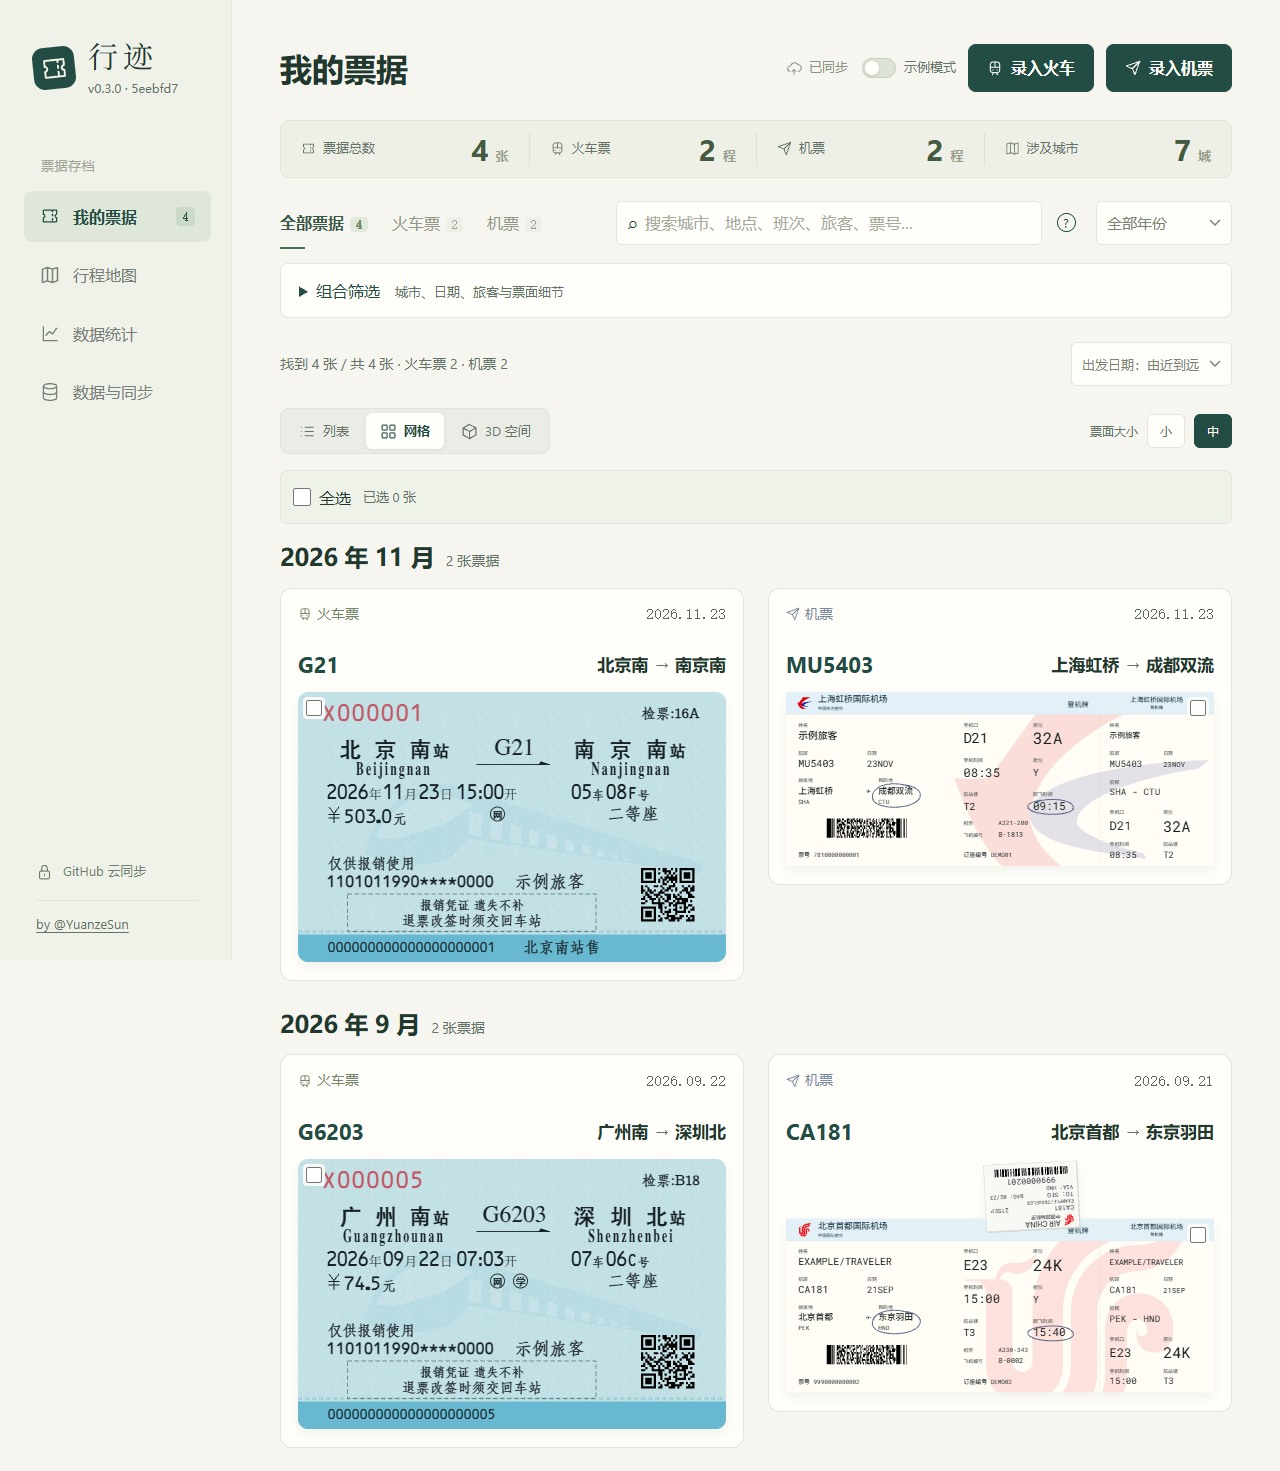
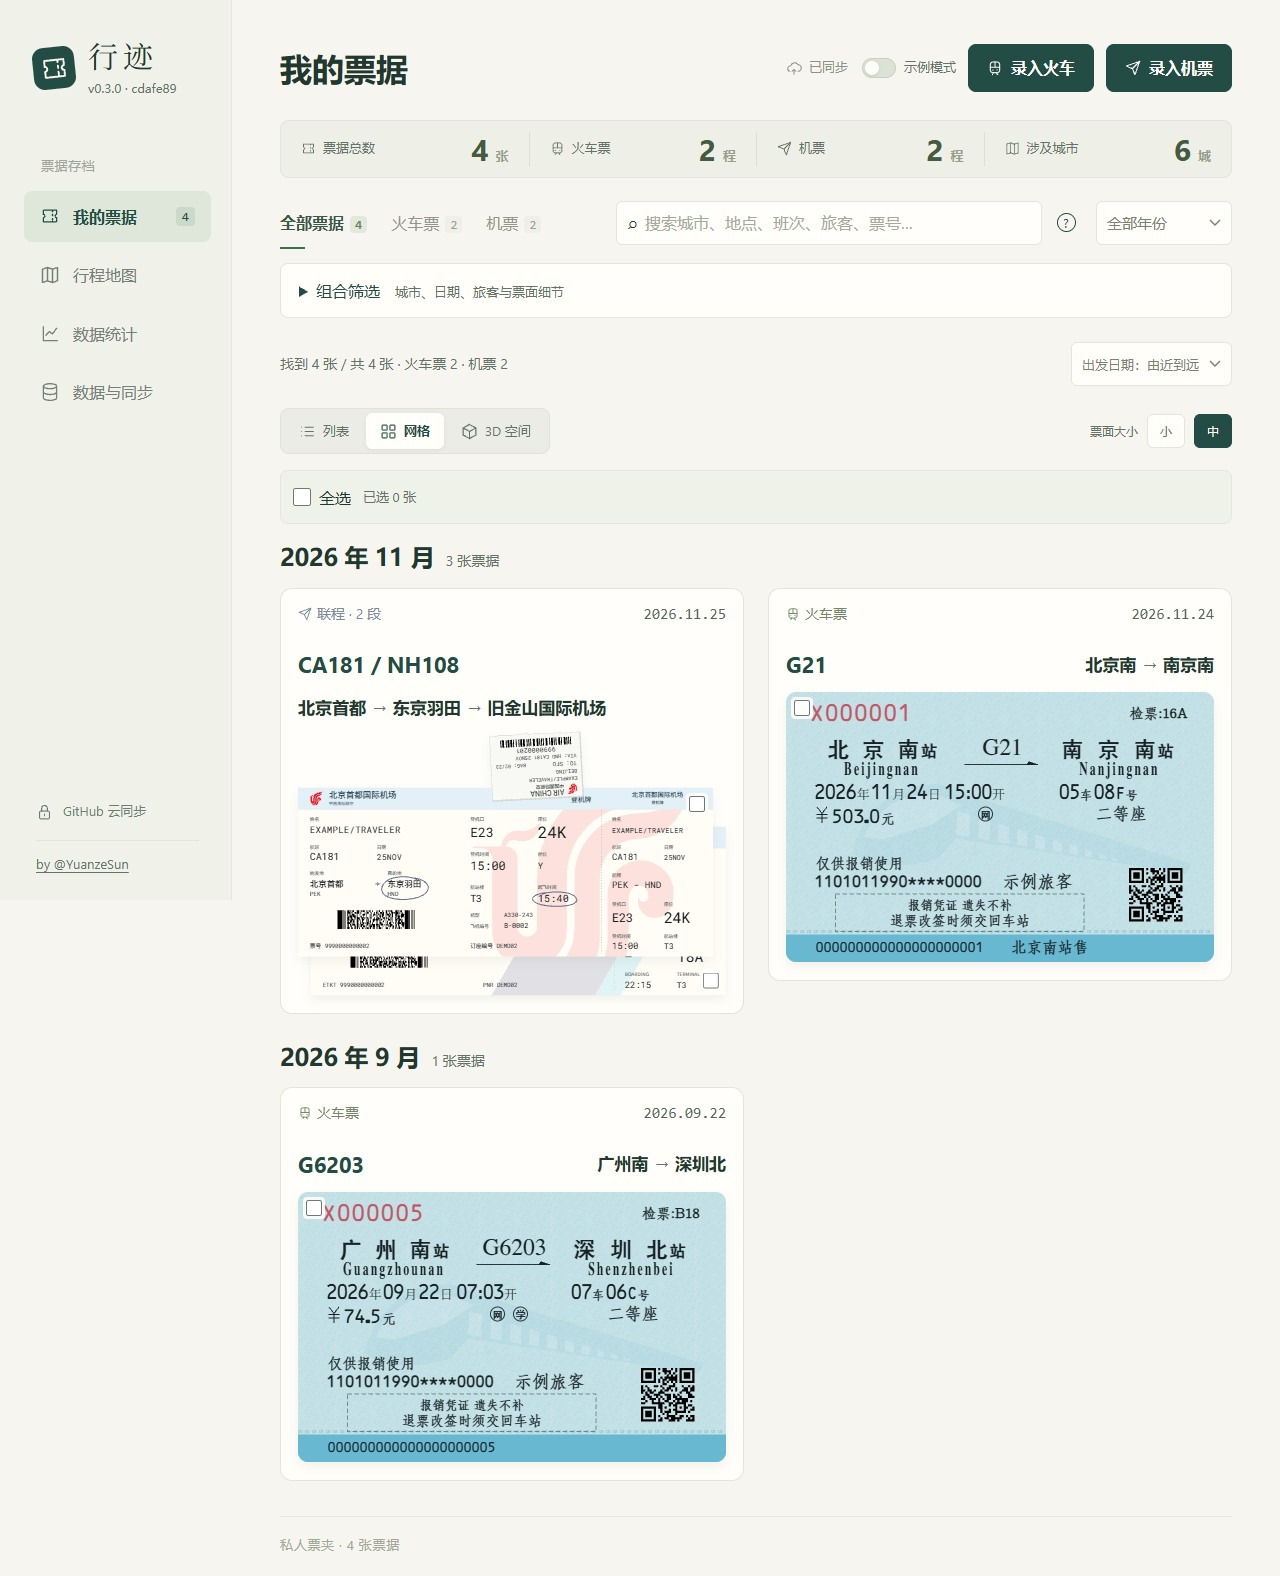
Show connecting itineraries and lift hovered boarding passes

diff --git a/src/ticket-card.js b/src/ticket-card.js
@@ -6,23 +6,46 @@ import {flightCabinLabel} from './seat-classes.js';
 
 const kind = record => isRefundReceipt(record) ? '退票费凭证' : record.type === 'rail' ? '火车票' : '机票';
 const routeLabel = record => `${record.service || '票据'} ${record.origin || '出发地待补充'}至${record.destination || '到达地待补充'}`;
+const serviceLabel = (record, fallback = '班次待补充') => record.service || (record.flightStatus === 'open' ? 'OPEN' : fallback);
 export function ticketSelection(record, selected) {
   return `<label class="card-select"><input type="checkbox" data-archive-select="${e(record.id)}" ${selected ? 'checked' : ''} aria-label="选择 ${e(routeLabel(record))} ${e(formatDate(record.departureDate))}票据"/></label>`;
 }
 
 function ticketFace(record, { selectable, selected, depth }) {
-  const layer = depth === undefined ? '' : ` ticket-stack-leg ${depth ? 'ticket-stack-layer' : 'ticket-stack-front'}${selected ? ' is-selected' : ''}`;
+  const layer = depth === undefined ? '' : ` ticket-stack-leg${selected ? ' is-selected' : ''}`;
   const offset = depth ? ` style="--stack-depth:${depth}"` : '';
   return `<div class="ticket-face${layer}" data-ticket-type="${record.type}"${offset}>${selectable ? ticketSelection(record,selected) : ''}<button class="ticket-preview" data-action="view" data-id="${e(record.id)}" aria-label="查看 ${e(routeLabel(record))}票据">${ticketSVG(record)}</button></div>`;
 }
 
-export function ticketCard(record, {icon, selectable = true, selected = false, selectedIds}) {
-  const stacked = record.stackedFlights?.length > 0;
-  const face = ticketFace(record, { selectable, selected, depth: stacked ? 0 : undefined });
-  const content = stacked ? `<div class="ticket-stack-deck" style="--stack-size:${record.stackedFlights.length}" role="group" aria-label="联程航班，共 ${record.stackedFlights.length + 1} 段">${face}${record.stackedFlights.map((leg, index) => ticketFace(leg, { selectable, selected: selectedIds?.has(leg.id), depth: index + 1 })).join('')}</div>` : face;
-  return `<article class="ticket-card${stacked ? ' ticket-stack' : selected ? ' is-selected' : ''}"><div class="card-top"><span class="transport-tag ${record.type}">${icon(record.type === 'rail' ? 'train' : 'plane')}${stacked ? `联程 · ${record.stackedFlights.length + 1} 段` : kind(record)}</span><time>${e(formatDate(record.departureDate))}</time></div><div class="card-info"><div class="card-route"><strong class="card-service">${e(record.service || (record.flightStatus === 'open' ? 'OPEN' : '班次待补充'))}</strong><h2><span class="route-endpoint">${e(record.origin || '出发地待补充')}</span><span class="route-arrow">→</span><span class="route-endpoint">${e(record.destination || '到达地待补充')}</span></h2></div></div>${content}</article>`;
+function ticketRoute(legs) {
+  const endpoint = (name, fallback) => `<span class="route-endpoint">${e(name || fallback)}</span>`;
+  return legs.map((leg, index) => {
+    const previous = legs[index - 1];
+    const departure = leg.originCode || leg.origin;
+    const connected = previous && departure && departure === (previous.destinationCode || previous.destination);
+    const origin = connected ? '' : endpoint(leg.origin, '出发地待补充');
+    const separator = previous && !connected ? '<span class="route-arrow">/</span>' : '';
+    return `${separator}${origin}<span class="route-arrow">→</span>${endpoint(leg.destination, '到达地待补充')}`;
+  }).join('');
 }
-export function ticketListRow(record, {icon, selectable = true, selected = false}) {
+
+export function ticketCard(record, {icon, selectable = true, selected}) {
+  const legs = [record, ...(record.stackedFlights || [])];
+  const stacked = legs.length > 1;
+  const services = legs.map(leg => serviceLabel(leg)).join(' / ');
+  const faces = legs.map((leg, index) => ticketFace(leg, {
+    selectable, selected: selected?.has(leg.id), depth: stacked ? index : undefined
+  })).join('');
+  const content = stacked
+    ? `<div class="ticket-stack-deck" style="--stack-size:${legs.length - 1}" role="group" aria-label="联程航班，共 ${legs.length} 段">${faces}</div>`
+    : faces;
+  return `<article class="ticket-card${stacked ? ' ticket-stack' : selected?.has(record.id) ? ' is-selected' : ''}">
+    <div class="card-top"><span class="transport-tag ${record.type}">${icon(record.type === 'rail' ? 'train' : 'plane')}${stacked ? `联程 · ${legs.length} 段` : kind(record)}</span><time>${e(formatDate(record.departureDate))}</time></div>
+    <div class="card-info"><div class="card-route"><strong class="card-service">${e(services)}</strong><h2>${ticketRoute(legs)}</h2></div></div>
+    ${content}</article>`;
+}
+export function ticketListRow(record, {icon, selectable = true, selected}) {
+  const checked = selected?.has(record.id);
   const seat = [record.type === 'rail' && record.carriage ? record.carriage+'车' : '',record.seat,record.type === 'flight' ? flightCabinLabel(record.seatClass) : record.seatClass].filter(Boolean).join(' · ');
-  return `<article class="ticket-card ticket-list-row${selected ? ' is-selected' : ''}">${selectable ? ticketSelection(record,selected) : ''}<button class="ticket-list-open" data-action="view" data-id="${e(record.id)}" aria-label="查看 ${e(routeLabel(record))}票据"><span class="ticket-list-date"><time>${e(formatDate(record.departureDate))}</time><small>${e(record.departureTime)}</small></span><span class="ticket-list-service"><span class="transport-tag ${record.type}" title="${kind(record)}">${icon(record.type === 'rail' ? 'train' : 'plane')}</span><strong>${e(record.service || (record.flightStatus === 'open' ? 'OPEN' : '待补充'))}</strong></span><span class="ticket-list-route"><span>${e(record.origin || '出发地待补充')}</span><span class="route-arrow">→</span><span>${e(record.destination || '到达地待补充')}</span></span><span class="ticket-list-person" title="${e(record.passenger)}">${e(record.passenger)}</span><span class="ticket-list-seat" title="${e(seat)}">${e(seat)}</span><span class="ticket-list-price">${record.price ? '¥'+e(record.price) : ''}</span>${icon('chevron')}</button></article>`;
+  return `<article class="ticket-card ticket-list-row${checked ? ' is-selected' : ''}">${selectable ? ticketSelection(record,checked) : ''}<button class="ticket-list-open" data-action="view" data-id="${e(record.id)}" aria-label="查看 ${e(routeLabel(record))}票据"><span class="ticket-list-date"><time>${e(formatDate(record.departureDate))}</time><small>${e(record.departureTime)}</small></span><span class="ticket-list-service"><span class="transport-tag ${record.type}" title="${kind(record)}">${icon(record.type === 'rail' ? 'train' : 'plane')}</span><strong>${e(serviceLabel(record, '待补充'))}</strong></span><span class="ticket-list-route"><span>${e(record.origin || '出发地待补充')}</span><span class="route-arrow">→</span><span>${e(record.destination || '到达地待补充')}</span></span><span class="ticket-list-person" title="${e(record.passenger)}">${e(record.passenger)}</span><span class="ticket-list-seat" title="${e(seat)}">${e(seat)}</span><span class="ticket-list-price">${record.price ? '¥'+e(record.price) : ''}</span>${icon('chevron')}</button></article>`;
 }

diff --git a/src/ticket-view.js b/src/ticket-view.js
@@ -2,7 +2,7 @@ import {ticketCard,ticketListRow} from './ticket-card.js';
 import {ticketSpaceMarkup} from './ticket-space.js';
 import {timeline,ticketPeriods} from './timeline.js';
 import {flightTicketKey} from './flight-ticket-shared.js';
-import {flightDepartureOrder,compareFlightDeparture} from './journey-duration.js';
+import {flightsInDepartureOrder} from './journey-duration.js';
 
 const modes = [['list','列表','<path d="M8 6h13M8 12h13M8 18h13M3 6h1M3 12h1M3 18h1"/>'],['grid','网格','<rect x="3" y="3" width="7" height="7" rx="1"/><rect x="14" y="3" width="7" height="7" rx="1"/><rect x="3" y="14" width="7" height="7" rx="1"/><rect x="14" y="14" width="7" height="7" rx="1"/>'],['space','3D 空间','<path d="m12 2 9 5v10l-9 5-9-5V7zM3 7l9 5 9-5M12 12v10"/>']];
 const sizes = {small:{label:'小',scale:.4},medium:{label:'中',scale:1}};
@@ -26,7 +26,7 @@ export function ticketViewEntries(records, view) {
   const stacks = new Map(), behind = new Set();
   for (const matches of groups.values()) {
     if (matches.length < 2) continue;
-    const [front, ...stackedFlights] = matches.map(flightDepartureOrder).sort(compareFlightDeparture).map(entry => entry.record);
+    const [front, ...stackedFlights] = flightsInDepartureOrder(matches);
     stacks.set(front.id, { ...front, stackedFlights });
     for (const leg of stackedFlights) behind.add(leg.id);
   }
@@ -40,7 +40,7 @@ export function ticketCollection(records, value, options) {
   const groupByDate=['newest','oldest'].includes(options.sort ?? 'newest');
   if(value.mode==='list'&&value.size==='medium')return timeline(records,options.icon,{...options,selectable:options.selectable ?? true,groupByDate});
   const list=value.mode==='list',render=list ? ticketListRow : ticketCard;
-  const renderRows=rows=>`<div class="ticket-collection ${list ? 'ticket-list' : 'ticket-grid'}" data-faces-only="${!list&&value.size==='small'}" style="${ticketGridStyle(value.size)}">${rows.map(record=>render(record,{...options,selected:options.selected?.has(record.id),selectedIds:options.selected})).join('')}</div>`;
+  const renderRows=rows=>`<div class="ticket-collection ${list ? 'ticket-list' : 'ticket-grid'}" data-faces-only="${!list&&value.size==='small'}" style="${ticketGridStyle(value.size)}">${rows.map(record=>render(record,options)).join('')}</div>`;
   return groupByDate ? `<section class="ticket-chronology">${ticketPeriods(records,renderRows,visibleTicketCount)}</section>` : renderRows(records);
 }
 export function appendTicketCollection(container, records, view, options) {

diff --git a/src/styles.css b/src/styles.css
@@ -784,12 +784,16 @@ p.flight-local-time{margin:-4px 0 13px}
 .ticket-face:has(.ticket-preview>svg[data-ticket-has-sticker])>.card-select{top:calc(100% * 171 / 671 + 5px)}
 .ticket-stack-deck{--stack-x:min(clamp(8px,3cqw,14px),calc(24cqw / var(--stack-size)));--stack-y:clamp(29px,9cqw,44px);display:grid;grid-template-columns:minmax(0,1fr);align-items:end;isolation:isolate;margin-bottom:18px;padding-inline-end:calc(var(--stack-size) * var(--stack-x));padding-bottom:calc(var(--stack-size) * var(--stack-y))}
 .ticket-collection[data-faces-only=true] .ticket-stack-deck,.ticket-stack-deck .ticket-stack-leg{margin-bottom:0}
-.ticket-stack-leg{grid-area:1/1}
-.ticket-stack-front{z-index:1}
-.ticket-stack-layer{z-index:calc(-1 * var(--stack-depth));transform:translate(calc(var(--stack-depth) * var(--stack-x)),calc(var(--stack-depth) * var(--stack-y)))}
-.ticket-stack-layer:has(:focus-visible){z-index:2}
+.ticket-stack-leg{grid-area:1/1;z-index:calc(0 - var(--stack-depth,0))}
+.ticket-stack-leg:not(:first-child){transform:translate(calc(var(--stack-depth) * var(--stack-x)),calc(var(--stack-depth) * var(--stack-y)))}
+@media(hover:hover){.ticket-stack-leg:hover{z-index:1}}
+.ticket-stack-leg:has(:focus-visible){z-index:2}
 .ticket-stack-leg.is-selected .ticket-preview{outline:2px solid #60836f;outline-offset:-1px}
-.ticket-stack-layer[data-ticket-type=flight]>.card-select{top:auto;bottom:4px;right:4px}
+.ticket-stack-leg:not(:first-child)>.card-select{top:auto;bottom:4px;right:4px}
+.ticket-stack .card-route{flex-wrap:wrap;justify-content:space-between}
+.ticket-stack .card-route .card-service{flex-shrink:1;white-space:normal;overflow-wrap:anywhere}
+.ticket-stack .card-route h2{flex:0 1 auto;flex-wrap:wrap;justify-content:flex-start}
+.ticket-stack .card-route h2 .route-endpoint{white-space:normal;overflow:visible}
 .ticket-collection[data-faces-only=true] .card-top{display:none}.ticket-collection[data-faces-only=true] .ticket-face{margin:0}
 .ticket-list-date{line-height:1.2;gap:2px}.ticket-list-person,.ticket-list-seat{white-space:nowrap;text-overflow:ellipsis;overflow:hidden}
 .ticket-list-route>span:not(.route-arrow){white-space:nowrap;overflow:hidden;text-overflow:ellipsis;min-width:0;max-width:calc(50% - 12px)}

diff --git a/tests/ticket-view-app.test.js b/tests/ticket-view-app.test.js
@@ -22,12 +22,12 @@ test('archive opens in medium newest-first grid and combines layouts with shared
     assert.equal(document.querySelector('[data-ticket-view="grid"]').getAttribute('aria-pressed'),'true');assert.equal(document.querySelector('[data-ticket-size="medium"]').getAttribute('aria-pressed'),'true');assert.equal(document.querySelector('#search-sort').value,'newest');
     assert.deepEqual([...document.querySelector('#search-sort').options].map(option=>option.value),['newest','oldest','price-asc','price-desc']);
     assert.match(document.querySelector('[data-action="load-more"]').textContent,/49 \/ 80/);
-    const back = '.ticket-stack-layer [data-action="view"][data-id="trip-48"]';
+    const back = '.ticket-stack-leg:nth-child(2) [data-action="view"][data-id="trip-48"]';
     click(back);
     await wait(()=>document.querySelector('.detail-grid'));
     assert.ok(document.querySelector('[data-action="edit"][data-id="trip-48"]'));
     click('[data-action="close-modal"]');await wait(()=>!document.querySelector('dialog'));
-    click('.ticket-stack-front [data-archive-select="trip-40"]');
+    click('.ticket-stack-leg:first-child [data-archive-select="trip-40"]');
     click(back);
     assert.equal(document.querySelector('[data-archive-select="trip-48"]').checked,true);
     assert.equal(document.querySelector('[data-archive-select="trip-40"]').checked,true);

diff --git a/tests/aircraft.test.js b/tests/aircraft.test.js
@@ -27,6 +27,7 @@ const examples = [
   ['Airbus A330-343', 'A330-343'], ['空客320', 'A320'], ['Airbus330-300', 'A330-300'], ['A20N', 'A320neo'], ['BCS3', 'A220-300'],
   ['220', 'A220'], ['300', 'A300'], ['310', 'A310'], ['318', 'A318'], ['319', 'A319'],
   ['320', 'A320'], ['321', 'A321'], ['330', 'A330'], ['340', 'A340'], ['350', 'A350'], ['380', 'A380'],
+  ['330-243', 'A330-243'], ['３３０－３４３', 'A330-343'], ['321-253NY', 'A321-253NY'],
   ['空中客车A330-300', 'A330-300'], ['波音 737-85C(WL)', '737-85C(WL)'],
   ['Boeing 737-85C(WL)', '737-85C(WL)'], ['Boeing 737-8Q8(WL)', '737-8Q8(WL)'], ['B738', '737-800'], ['B737', '737'],
   ['737 MAX 8', '737 MAX 8'], ['Boeing 737-8 MAX', '737 MAX 8'], ['B77W', '777-300ER']
@@ -106,6 +107,7 @@ test('series and source-specific codes narrow only as far as the evidence allows
 
 // Independent expectations from FAA SAGE, JO 7360.1K, ICAO Doc 8643 and the manufacturers.
 const referenceCases = [
+  ['330-243', 'A330-200'],
   ['737-112', '737-100'], ['737-2H4', '737-200'], ['737-3Q8', '737-300'],
   ['737-46J', '737-400'], ['737-5H4', '737-500'], ['737-6Q8', '737-600'],
   ['737-724', '737-700'], ['737-824', '737-800'], ['737-832', '737-800'],

diff --git a/src/data/aircraft-reference.js b/src/data/aircraft-reference.js
@@ -35,7 +35,7 @@ export const AIRCRAFT_MODELS = {
   'CRJ-1000': { icao: ['CRJX'], aliases: ['CRK'] },
   'A220-100': { icao: ['BCS1'], aliases: ['A221', 'CS100'], variants: ['BD-500-1A10'] },
   'A220-300': { icao: ['BCS3'], aliases: ['A223', 'CS300'], variants: ['BD-500-1A11'] },
-  A318: { aliases: ['318'], icao: ['A318'], variants: ['A318-111', 'A318-112', 'A318-121', 'A318-122'] },
+  A318: { icao: ['A318'], variants: ['A318-111', 'A318-112', 'A318-121', 'A318-122'] },
   'A319ceo': {
     variants: ['A319-100', 'A319-111', 'A319-112', 'A319-113', 'A319-114', 'A319-115', 'A319-131', 'A319-132',
       'A319-133']
@@ -208,7 +208,7 @@ export const AIRCRAFT_MODELS = {
 // Broad names yield a series only.
 export const AIRCRAFT_SERIES = {
   '707': [], '717': [], '727': [], '737': [], '747': [], '757': [], '767': [], '777': [], '787': [],
-  A220: ['220'], A300: ['300'], A310: ['310'], A319: ['319'], A320: ['320'], A321: ['321'], A330: ['330'], A340: ['340'], A350: ['350'], A380: ['380'],
+  A220: [], A300: [], A310: [], A319: [], A320: [], A321: [], A330: [], A340: [], A350: [], A380: [],
   'ATR 42': [],
   'ATR 72': ['AT7'],
   CRJ: [],

diff --git a/src/boarding-baggage.js b/src/boarding-baggage.js
@@ -1,6 +1,6 @@
 import { BOARDING_BAGGAGE_FIELDS, flightTicketNumber } from './boarding-metadata.js';
 import { isInactiveFlight } from './flight-status.js';
-import { flightDepartureOrder, compareFlightDeparture } from './journey-duration.js';
+import { flightsInDepartureOrder } from './journey-duration.js';
 
 const hasBags = data => BOARDING_BAGGAGE_FIELDS.some(key => data[key]?.trim());
 const activeFlight = record => record.type === 'flight' && !record.deleted && !isInactiveFlight(record);
@@ -30,7 +30,7 @@ export function boardingBaggageIndex(records) {
   }
 
   for (const group of groups.values()) {
-    const legs = group.length > 1 ? group.map(flightDepartureOrder).sort(compareFlightDeparture).map(entry => entry.record) : group;
+    const legs = flightsInDepartureOrder(group);
     const fields = Object.fromEntries(BOARDING_BAGGAGE_FIELDS.map(key =>
       [key, legs.find(record => record[key]?.trim())?.[key] || '']));
     const sticker = Object.values(fields).some(Boolean) ? {

diff --git a/src/flight-ticket-shared.js b/src/flight-ticket-shared.js
@@ -1,6 +1,6 @@
 import { BOARDING_BAGGAGE_FIELDS, flightTicketNumber } from './boarding-metadata.js';
 import { isInactiveFlight } from './flight-status.js';
-import { flightDepartureOrder, compareFlightDeparture } from './journey-duration.js';
+import { flightsInDepartureOrder } from './journey-duration.js';
 import { markFieldSources } from './field-sources.js';
 
 export const FLIGHT_SHARED_FIELDS = [...BOARDING_BAGGAGE_FIELDS, 'price'];
@@ -23,8 +23,7 @@ function applySharedValues(record, values) {
 export function prefillFlightTicket(record, records, edits) {
   const matches = sameTicketFlights(record, records);
   if (!matches.length) return record;
-  const linked = matches.length > 1
-    ? matches.map(flightDepartureOrder).sort(compareFlightDeparture).map(entry => entry.record) : matches;
+  const linked = flightsInDepartureOrder(matches);
   const values = {};
   for (const key of FLIGHT_SHARED_FIELDS) {
     if (edits?.has(key)) continue;

diff --git a/tests/ticket-view.test.js b/tests/ticket-view.test.js
@@ -85,6 +85,8 @@ test('grid stacks stay together under the first visible flight and count every l
       const root = dom.window.document.body;
       appendTicketCollection(root, entries.slice(1), view, options);
       const stack = root.querySelector('.ticket-period[data-ticket-period="2026-11"] .ticket-stack');
+      assert.equal(stack.querySelector('.card-service').textContent, 'CA181 / NH006');
+      assert.deepEqual([...stack.querySelectorAll('.route-endpoint')].map(node => node.textContent), [first.origin, first.destination, next.destination]);
       assert.deepEqual([...stack.querySelectorAll('[data-action="view"]')].map(button => button.dataset.id), ['first', 'next']);
       assert.equal(stack.querySelectorAll('.ticket-preview > svg').length, 2);
       assert.equal(stack.querySelector('[data-archive-select="next"]').checked, true);

diff --git a/src/journey-duration.js b/src/journey-duration.js
@@ -46,6 +46,11 @@ export function compareFlightDeparture(a, b) {
     (a.record.departureTime || '').localeCompare(b.record.departureTime || '') || a.record.id.localeCompare(b.record.id);
 }
 
+export function flightsInDepartureOrder(records) {
+  if (records.length < 2) return records;
+  return records.map(flightDepartureOrder).sort(compareFlightDeparture).map(entry => entry.record);
+}
+
 const durationMinutes = (departure, arrival) => arrival > departure ? Math.round((arrival - departure) / MINUTE) : 0;
 
 export function flightTiming(record) {

diff --git a/src/aircraft.js b/src/aircraft.js
@@ -27,6 +27,7 @@ function addAircraft(name, aliases, models, icaoCodes = []) {
   const label = models.length === 1 ? models[0] : name + '（子型号未确认）';
   const aircraft = { name, series, label, models };
   for (const input of [name, ...aliases]) aircraftByName.set(key(input), aircraft);
+  if (/^A\d{3}(?:-|$)/.test(name)) aircraftByName.set(key(name.slice(1)), aircraft);
   for (const code of icaoCodes) {
     aircraftByName.set(code, aircraft);
     aircraftByIcaoCode.set(code, aircraft);

diff --git a/README.md b/README.md
@@ -19,7 +19,7 @@
 
 ### 票据录入
 
-![按月份整理的票夹及机票、火车票录入入口](docs/images/ticket-entry.jpg)
+![按月份整理的票夹、联程登机牌与票据录入入口](docs/images/ticket-entry.jpg)
 
 ![从 12306 积分明细选择乘车记录](docs/images/rail-points-import.jpg)
 
